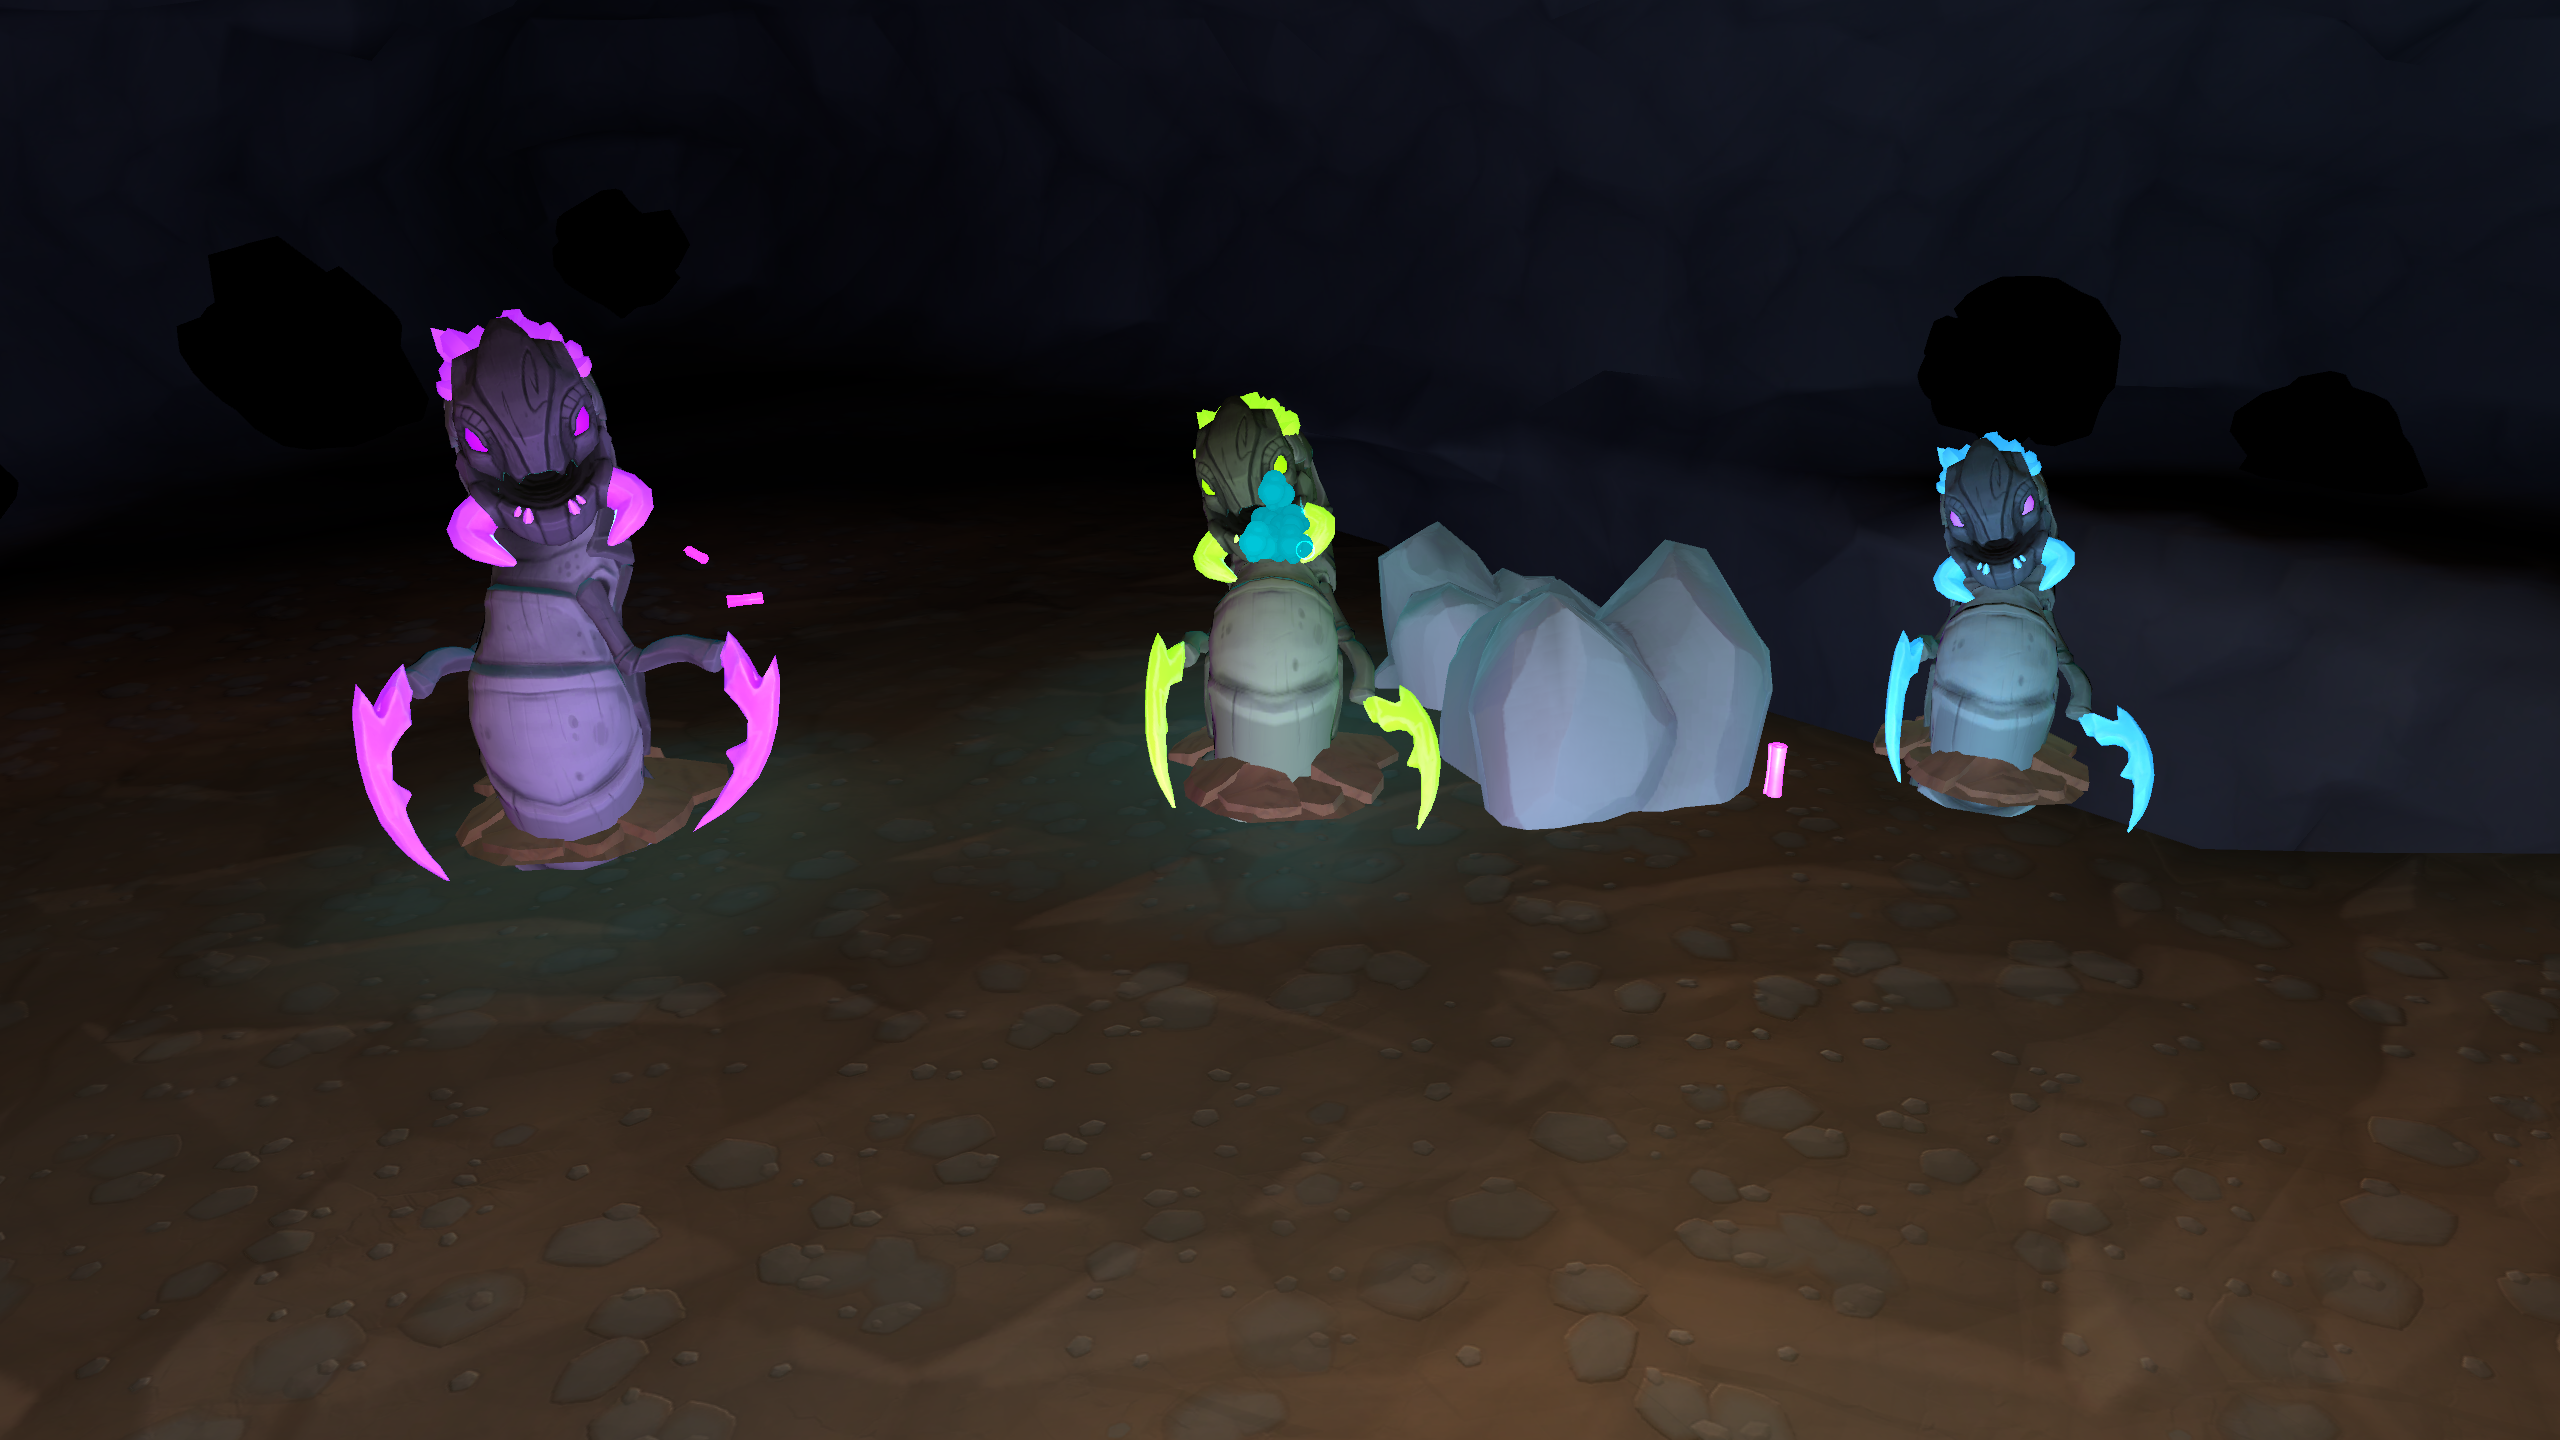
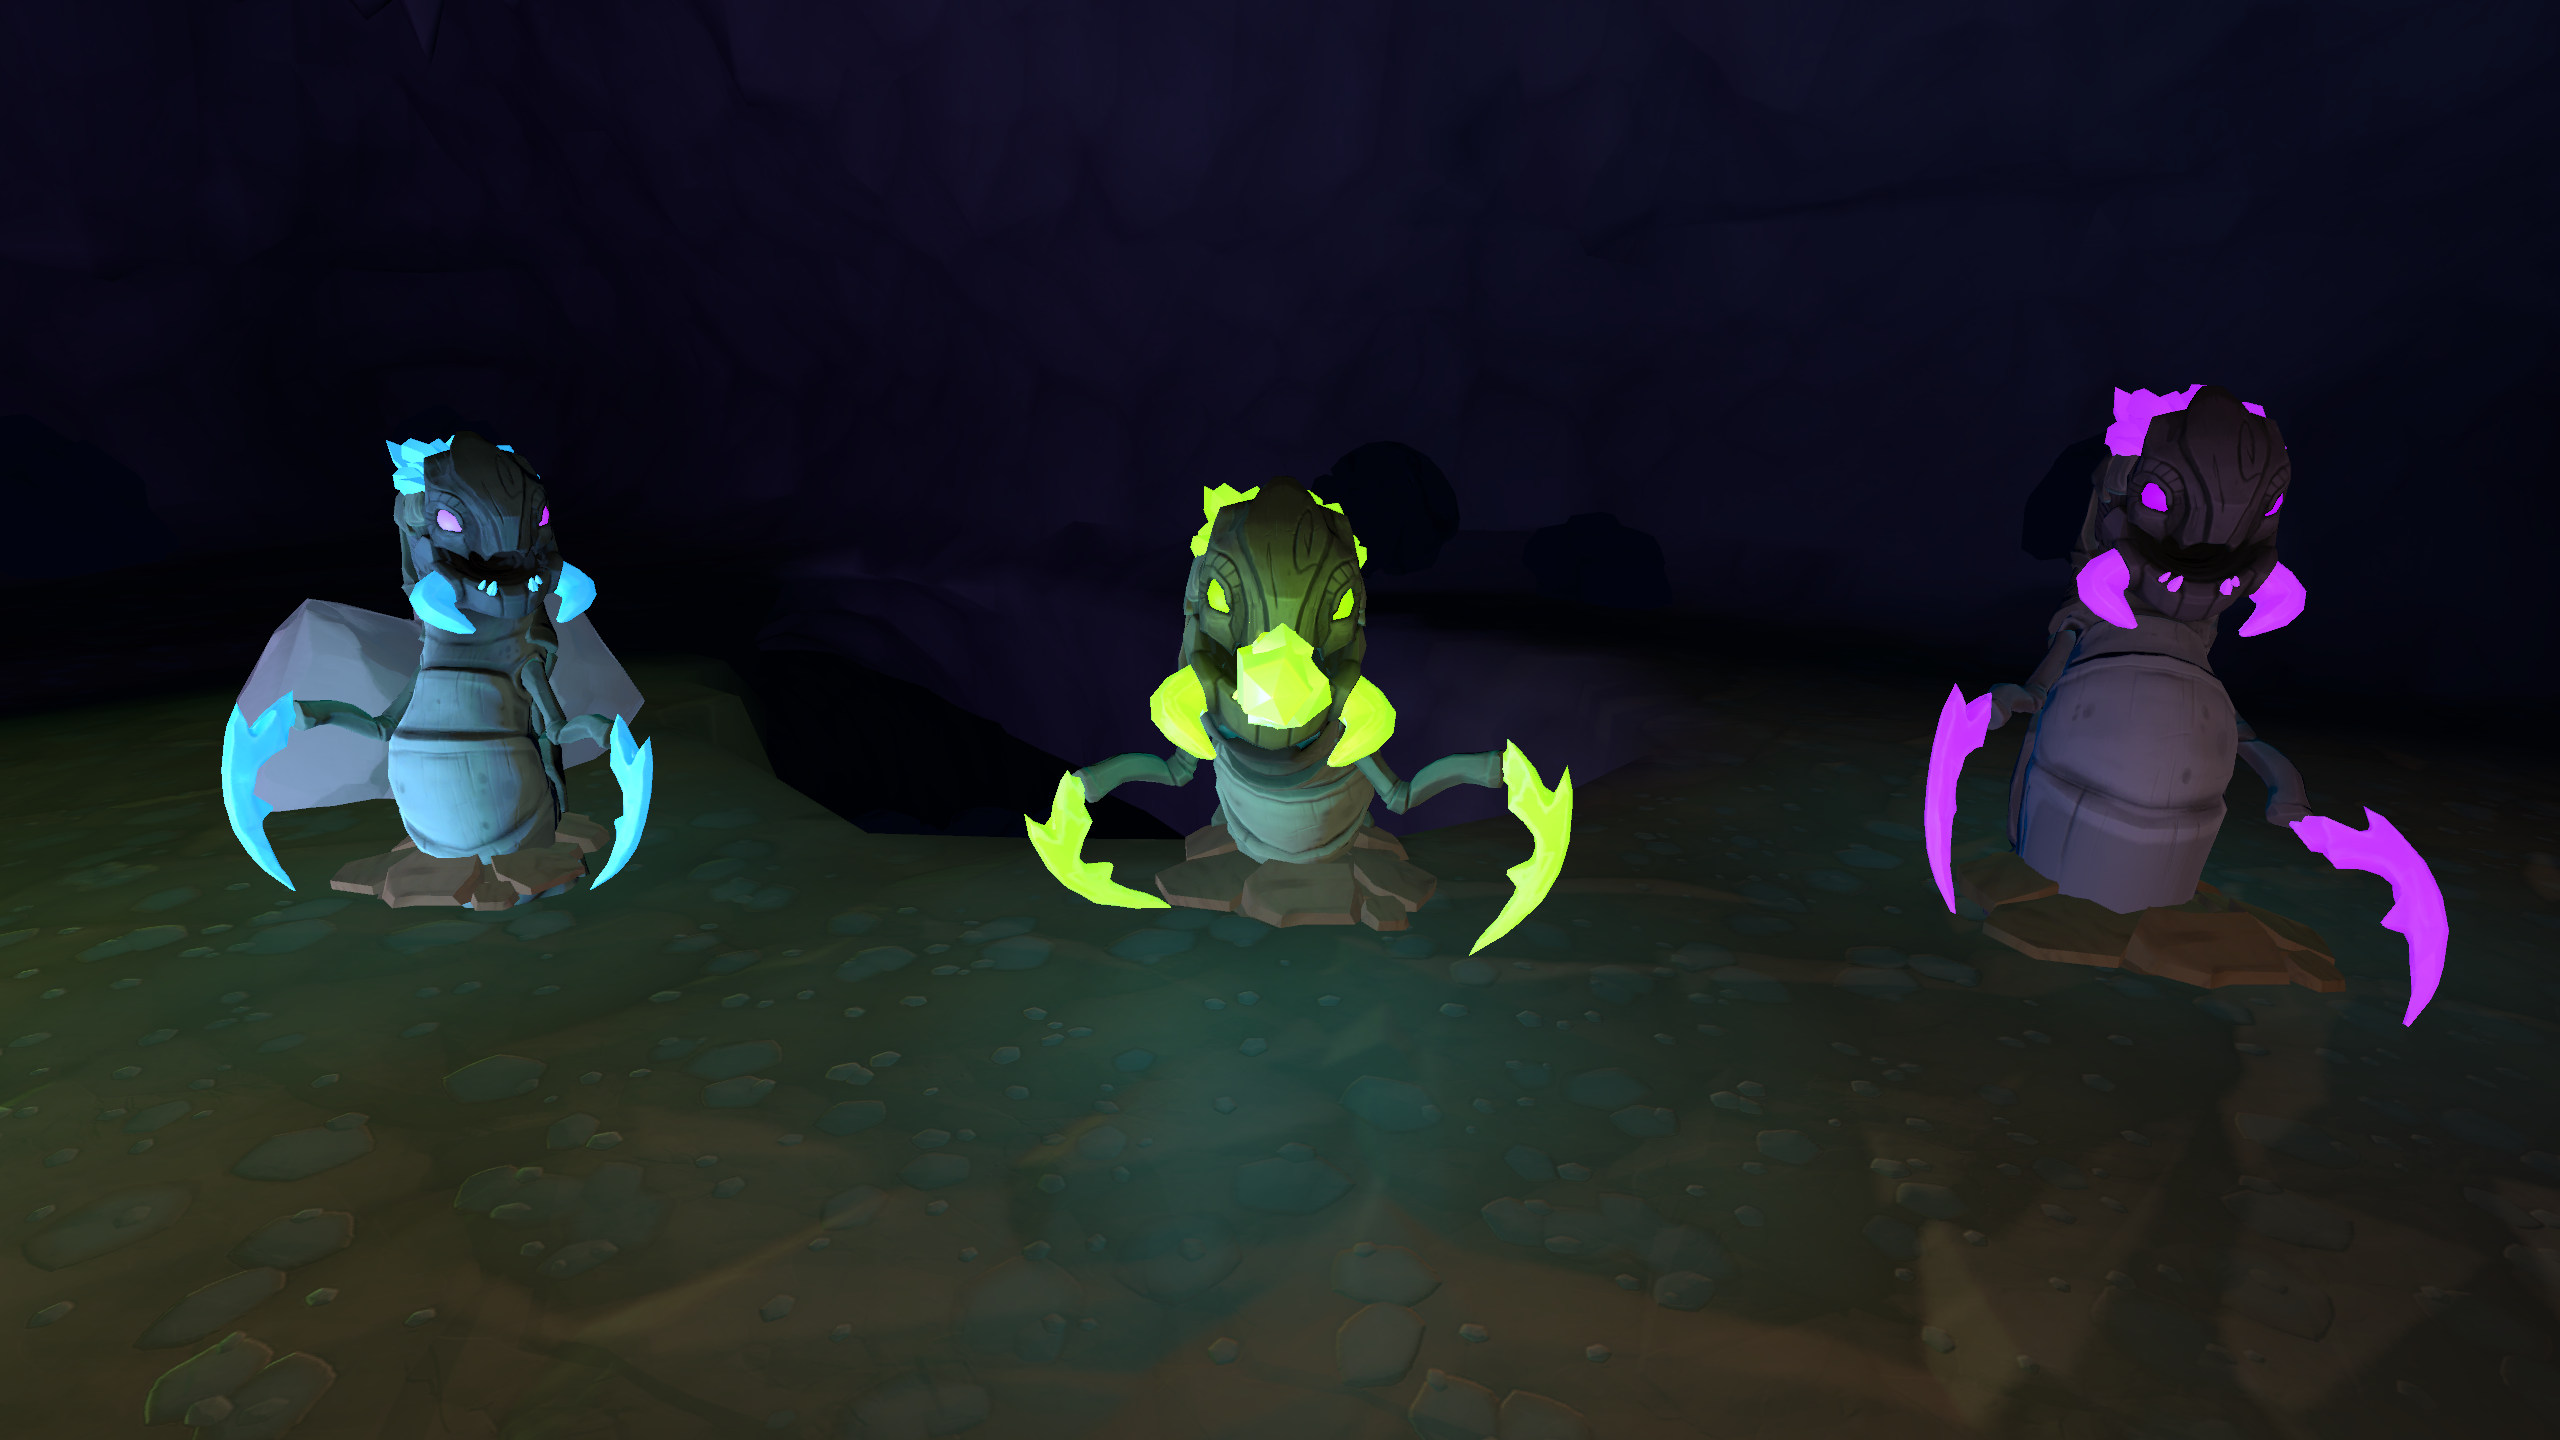
New wyrm, roll and bag pictures

diff --git a/README.md b/README.md
@@ -2,17 +2,19 @@
 
 A mod for A Township Tale that makes the deep mines worth going down for. Crystal wyrms drop glowing leather in their own color, two new crystal wyrms show up the deeper you dig, and every wyrm gets tougher the further down it is.
 
-![Purple, green and blue crystal wyrms](docs/wyrms.png)
+![Blue, green and purple crystal wyrms](docs/wyrms.png)
 
 ## Crystal leather
 
 Crystal wyrms drop **Crystal Leather** instead of normal wyrm leather. It comes in the wyrm's color: blue, green or purple. It works exactly like normal wyrm leather and fits every recipe it does. The difference is that it glows.
 
-![Rolls and bags of crystal leather in all three colors](docs/leather.png)
+![A roll of normal wyrm leather next to blue, green and purple crystal leather](docs/rolls.png)
+
+*Normal wyrm leather on the left, crystal leather in each color next to it.*
 
 A single piece gives off a faint glow. The more crystal leather something is made of, the brighter it gets, and a full bag made of it lights up the cave around you. It keeps glowing when you're wearing it or carrying it, and an item made from more than one color glows in each of them.
 
-![Purple, green and blue crystal leather bags lighting up the cave floor](docs/bags.png)
+![Blue, green and purple crystal leather bags lighting up the cave floor](docs/bags.png)
 
 ## Green and purple wyrms
 
@@ -37,11 +39,11 @@ Both are bigger and meaner than the blue ones, and their spit is their own color
 
 **Green** wyrms are the hunters. They react faster, come up out of the ground for you from further away (22.5 m instead of 15), spit from further away (28 m instead of 20), bite twice in a row more often, and stay above ground longer before they dig back in.
 
-![Green wyrm spitting](docs/green-spit.png)
+<img src="docs/green.png" alt="Green crystal wyrm" width="49%"> <img src="docs/green-spit.png" alt="Green wyrm spitting" width="49%">
 
 **Purple** wyrms are the tanks. They take 25% less damage from blunt weapons, and once they drop below half health they go into a rage: they get faster and spin and spit twice as often.
 
-![Purple wyrm spitting](docs/purple-spit.png)
+<img src="docs/purple.png" alt="Purple crystal wyrm" width="49%"> <img src="docs/purple-spit.png" alt="Purple wyrm spitting" width="49%">
 
 ## Deeper means tougher
 
